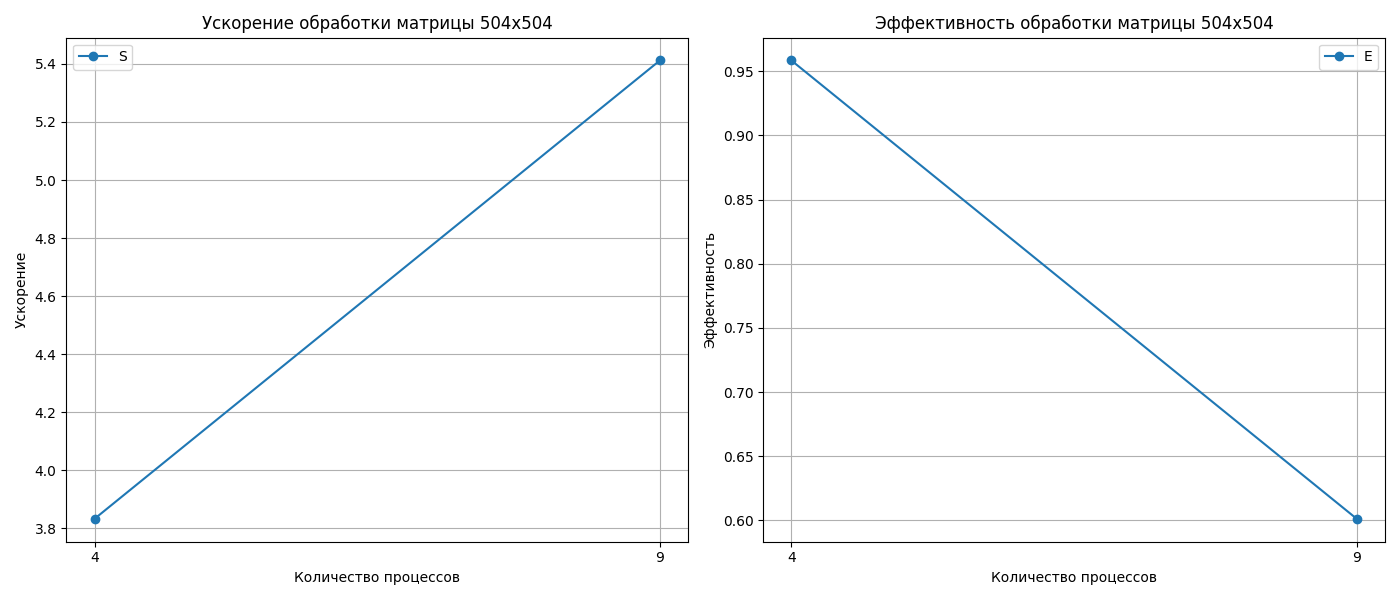
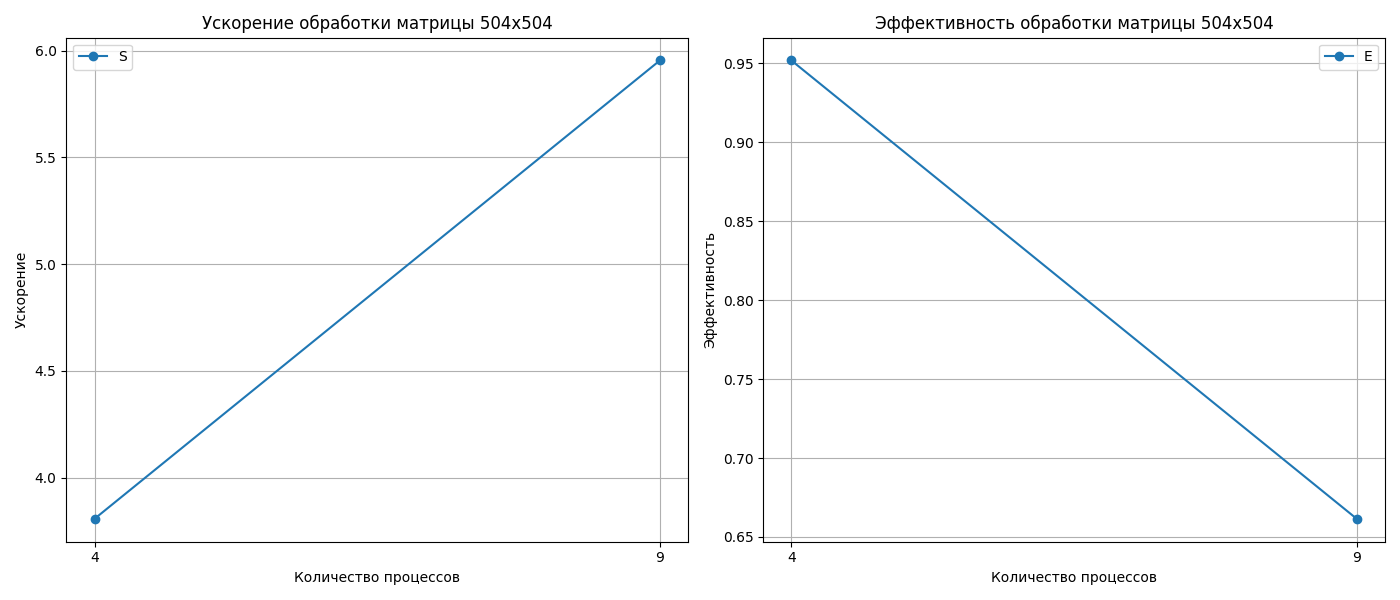
benchmarks for task2

diff --git a/utils/cannon_matmul_metrics.py b/utils/cannon_matmul_metrics.py
@@ -61,9 +61,10 @@ def plot_matrix_performance(data, save_path):
 
 
 def main() -> None:
-    matrix_sizes = [x for x in range(500, 3_000) if x % 4 == 0 and x % 9 == 0][::20]
+    matrix_sizes = [x for x in range(500, 3_000) if x % 4 == 0 and x % 9 == 0][::25]
+    print(matrix_sizes)
     num_processes = [1, 4, 9]
-    num_of_tries = 100
+    num_of_tries = 20
 
     os.makedirs(f'{ROOT_DIR}/src/task2/task_2_benchmark', exist_ok=True)
     for size in matrix_sizes:
@@ -80,7 +81,7 @@ def main() -> None:
                 '**E**']
         )
         for processes in tqdm.tqdm(num_processes, desc=f'[Size={os.environ.get("MAT_SIZE")}]'):
-            results = [run_mpi_program(processes) for _ in range(num_of_tries)]
+            results = [run_mpi_program(processes) for _ in tqdm.trange(num_of_tries)]
             result = sum(results) / num_of_tries
 
             if processes == 1:

diff --git a/src/task2/task_2_benchmark/size=1404/table.md b/src/task2/task_2_benchmark/size=1404/table.md
@@ -1,5 +1,5 @@
 |  Размер матрицы **A**  |  Количество процессов **P**  |  **S**  |  **E**  |
 | :---: | :---: | :---: | :---: |
-|  1224x1224  |  1  |  -  |  -  |
-|  1224x1224  |  4  |  4.5167  |  1.1292  |
-|  1224x1224  |  9  |  8.3624  |  0.9292  |
+|  1404x1404  |  1  |  -  |  -  |
+|  1404x1404  |  4  |  5.0196  |  1.2549  |
+|  1404x1404  |  9  |  9.1061  |  1.0118  |

diff --git a/src/task2/task_2_benchmark/size=2304/table.md b/src/task2/task_2_benchmark/size=2304/table.md
@@ -1,5 +1,5 @@
 |  Размер матрицы **A**  |  Количество процессов **P**  |  **S**  |  **E**  |
 | :---: | :---: | :---: | :---: |
-|  504x504  |  1  |  -  |  -  |
-|  504x504  |  4  |  3.8075  |  0.9519  |
-|  504x504  |  9  |  5.9536  |  0.6615  |
+|  2304x2304  |  1  |  -  |  -  |
+|  2304x2304  |  4  |  8.3036  |  2.0759  |
+|  2304x2304  |  9  |  13.7087  |  1.5232  |
